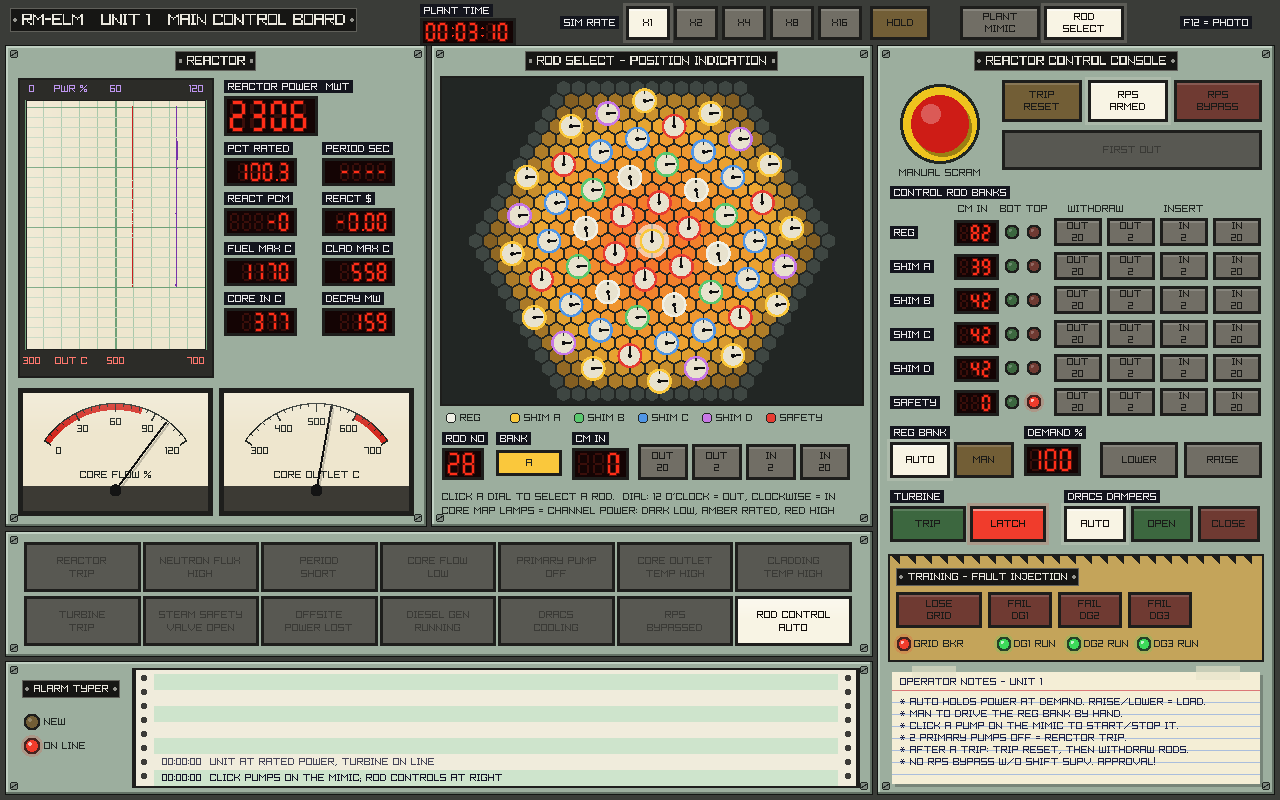
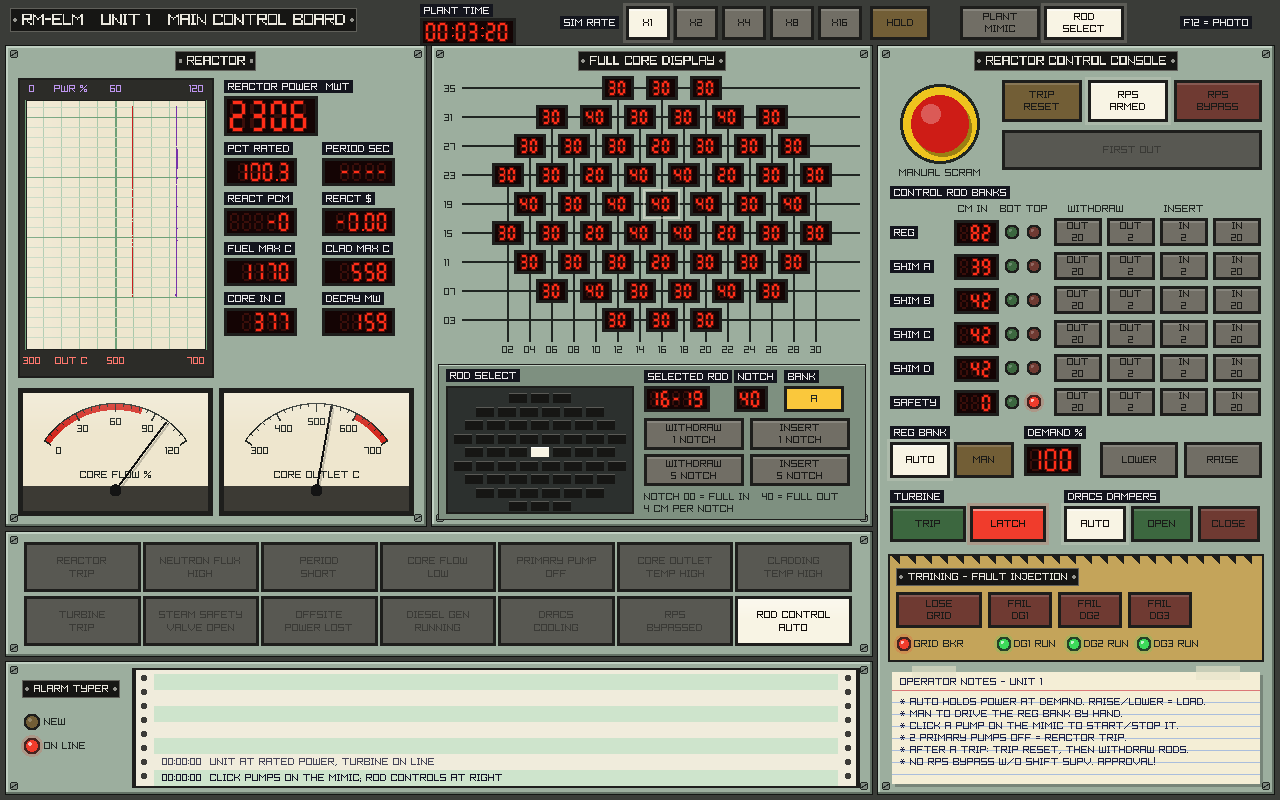
GUI: BWR-style full core display and rod select matrix
Replace the dial board with a ruled full core display of 2-digit LED
notch readouts (rod lattice turned back into 9 staggered rows with XX-YY
coordinates) and a desk rod select pushbutton matrix with notch drive.

Claude-Session: https://claude.ai/code/session_01TmzsBVUwRHTHfPCPwT7qXi

Changed region(s): [[0.3438, 0.0625, 0.6875, 0.6562], [0.375, 0.0312, 0.4062, 0.0625]]

diff --git a/src/gui/rmelm_gui.c b/src/gui/rmelm_gui.c
@@ -59,7 +59,6 @@ static char last_first_out[48] = "";
 static double last_log_time = -100;
 static int show_rods = 0;               /* centre board: 0 = plant mimic, 1 = rod select */
 static int sel_rod = -1;                /* selected rod (core index) or -1 */
-static int rod_no[128];                 /* rod number shown to the operator, 1..55 in reading order */
 
 static void logmsg(const char *fmt, ...)
 {
@@ -520,31 +519,44 @@ static void draw_mimic(Rectangle r)
     meter((Rectangle){r.x + 20 + 2 * mw, r.y + 362, mw, 110}, "DRACS MW", P->Q_dracs / 1e6, 0, 100, 0, 0, 2);
 }
 
-/* ---- rod select board ------------------------------------------------------ */
+/* ---- full core display and rod select matrix -------------------------------- */
 static const Color BANK_C[RM_NBANKS] = {
     {240, 240, 230, 255}, {250, 200, 60, 255}, {90, 200, 110, 255},
     {80, 150, 230, 255}, {200, 120, 230, 255}, {230, 60, 50, 255},
 };
 static const char *bank_short[RM_NBANKS] = {"REG", "A", "B", "C", "D", "SAFE"};
 
-/* number the rods 1..N top to bottom, left to right, like a core map */
+/* The rods sit on an index-7 sub-lattice of the hex grid, which is itself a
+ * triangular lattice turned by 19.1 degrees. Turned back, the 55 rods fall
+ * into 9 staggered rows, laid out like a BWR full core display, and get
+ * BWR-style XX-YY coordinates. */
+static int rod_ci[128], rod_rj[128], cmin, cmax, rmin, rmax;
+static char rod_id[128][16];
+
 static void number_rods(void)
 {
     rm_core *c = &P->core;
     rm_hexgrid *g = &c->dif.grid;
-    int ord[128];
-    for (int k = 0; k < c->nctrl; k++) ord[k] = k;
-    for (int i = 1; i < c->nctrl; i++)
-        for (int j = i; j > 0; j--) {
-            int a = c->ctrl_col[ord[j - 1]], b = c->ctrl_col[ord[j]];
-            double xa = g->q[a] + 0.5 * g->r[a], xb = g->q[b] + 0.5 * g->r[b];
-            if (g->r[a] < g->r[b] || (g->r[a] == g->r[b] && xa <= xb)) break;
-            int t = ord[j];
-            ord[j] = ord[j - 1];
-            ord[j - 1] = t;
-        }
-    for (int i = 0; i < c->nctrl; i++) rod_no[ord[i]] = i + 1;
+    double th = atan2(sqrt(3.0) / 2, 2.5), cs = cos(th), sn = sin(th);
+    cmin = rmin = 1000;
+    cmax = rmax = -1000;
+    for (int k = 0; k < c->nctrl; k++) {
+        int col = c->ctrl_col[k];
+        double x = g->q[col] + 0.5 * g->r[col], y = sqrt(3.0) / 2 * g->r[col];
+        rod_ci[k] = (int)lround((x * cs - y * sn) / (sqrt(7.0) / 2));
+        rod_rj[k] = (int)lround((x * sn + y * cs) / (sqrt(21.0) / 2));
+        if (rod_ci[k] < cmin) cmin = rod_ci[k];
+        if (rod_ci[k] > cmax) cmax = rod_ci[k];
+        if (rod_rj[k] < rmin) rmin = rod_rj[k];
+        if (rod_rj[k] > rmax) rmax = rod_rj[k];
+    }
+    for (int k = 0; k < c->nctrl; k++)
+        snprintf(rod_id[k], sizeof rod_id[k], "%02d-%02d", 2 * (rod_ci[k] - cmin) + 2, 4 * (rmax - rod_rj[k]) + 3);
 }
+
+/* notch position: 00 = fully inserted, 40 = fully withdrawn, 4 cm per notch */
+#define NOTCH_CM 4.0
+static int notch(double ins) { return (int)lround((RM_ACTIVE_H - ins) / NOTCH_CM); }
 
 static int rod_blocked(int k, int log)
 {
@@ -554,119 +566,111 @@ static int rod_blocked(int k, int log)
         return 1;
     }
     if (c->ctrl_bank[k] == BANK_REG && P->auto_rod) {
-        if (log) logmsg("ROD %d IS IN REG BANK - SELECT MAN FIRST", rod_no[k]);
+        if (log) logmsg("ROD %s IS IN REG BANK - SELECT MAN FIRST", rod_id[k]);
         return 1;
     }
     return 0;
 }
 
-/* channel power lamp: dark at zero, amber at the mean rated channel power, red above */
-static Color power_color(double rel)
-{
-    Color a, b;
-    double f;
-    if (rel < 1.0) { a = (Color){40, 30, 20, 255}; b = (Color){236, 168, 50, 255}; f = rel; }
-    else { a = (Color){236, 168, 50, 255}; b = (Color){255, 60, 36, 255}; f = (rel - 1.0) / 1.0; }
-    if (f < 0) f = 0;
-    if (f > 1) f = 1;
-    return (Color){(unsigned char)(a.r + (b.r - a.r) * f), (unsigned char)(a.g + (b.g - a.g) * f),
-                   (unsigned char)(a.b + (b.b - a.b) * f), 255};
-}
-
 static void draw_rodselect(Rectangle r)
 {
     rm_core *c = &P->core;
-    rm_hexgrid *g = &c->dif.grid;
-    steel(r, "ROD SELECT - POSITION INDICATION");
-    Rectangle b = {r.x + 8, r.y + 30, r.width - 16, 330};
-    DrawRectangleRec(b, (Color){34, 38, 36, 255});
-    DrawRectangleLinesEx(b, 2, BEZEL);
-    Vector2 o = {b.x + b.width / 2, b.y + b.height / 2};
-    const float sc = 0.92f;                        /* px per cm */
-    float hexr = RM_PITCH * sc / sqrtf(3.0f);
+    steel(r, "FULL CORE DISPLAY");
     Vector2 m = GetMousePosition();
     int blink = ((int)(GetTime() * 3)) & 1;
-
-    /* core map: every fuel channel is a lamp lit by its power */
-    double pch_rated = RM_P_RATED / c->nchan;
-    for (int col = 0; col < g->n; col++) {
-        if (g->ring[col] > RM_CORE_RINGS + 1) continue;
-        double x, y;
-        rm_hexgrid_xy(g, col, RM_PITCH * sc, &x, &y);
-        Vector2 p = {o.x + (float)x, o.y + (float)y};
-        if (c->coltype[col] == COL_REFL) {
-            DrawPoly(p, 6, hexr - 1, 30, (Color){62, 70, 66, 255});
-        } else if (c->coltype[col] == COL_FUEL) {
-            int ch = c->chan_of_col[col];
-            double pw = 0;
-            for (int k = 0; k < RM_NZ_ACT; k++) pw += c->th.q_node[core_fnode(c, ch, k)];
-            DrawPoly(p, 6, hexr - 1, 30, power_color(pw / pch_rated));
-        }
-    }
-
-    /* one position dial per rod: needle at 12 o'clock = fully out, clockwise = in */
     int hover = -1;
+
+    /* upper board: one 2-digit notch readout per rod on a ruled grid */
+    const float cp = 22, rp = 29;
+    float gx0 = r.x + 40 + (r.width - 60 - (cmax - cmin) * cp) / 2, gy0 = r.y + 42;
+    float lx = r.x + 30, rx = r.x + r.width - 12, by = gy0 + (rmax - rmin) * rp + 22;
+    for (int j = rmin; j <= rmax; j++) {
+        float y = gy0 + (j - rmin) * rp;
+        DrawLineEx((Vector2){lx, y}, (Vector2){rx, y}, 1.5f, INK);
+        textf(r.x + 12, y - 4, 10, INK, "%02d", 4 * (rmax - j) + 3);
+    }
+    for (int i = cmin; i <= cmax; i++) {
+        int top = rmax + 1;
+        for (int k = 0; k < c->nctrl; k++)
+            if (rod_ci[k] == i && rod_rj[k] < top) top = rod_rj[k];
+        if (top > rmax) continue;
+        float x = gx0 + (i - cmin) * cp;
+        DrawLineEx((Vector2){x, gy0 + (top - rmin) * rp}, (Vector2){x, by}, 1.5f, INK);
+        char lb[4];
+        snprintf(lb, sizeof lb, "%02d", 2 * (i - cmin) + 2);
+        ctext(lb, x, by + 3, 10, INK);
+    }
     for (int k = 0; k < c->nctrl; k++) {
-        double x, y;
-        rm_hexgrid_xy(g, c->ctrl_col[k], RM_PITCH * sc, &x, &y);
-        Vector2 p = {o.x + (float)x, o.y + (float)y};
-        if (k == sel_rod) DrawCircleV(p, 17, alpha(L_WHT, blink ? 170 : 90));
-        DrawCircleV(p, 12.5f, BANK_C[c->ctrl_bank[k]]);
-        DrawCircleV(p, 10, (Color){232, 226, 206, 255});
-        DrawLineEx((Vector2){p.x, p.y - 10}, (Vector2){p.x, p.y - 7}, 1.5f, INK);
-        float a = (float)((-90.0 + 330.0 * c->rod_ins[k] / RM_ACTIVE_H) * DEG2RAD);
-        DrawLineEx(p, (Vector2){p.x + 8.5f * cosf(a), p.y + 8.5f * sinf(a)}, 2, (Color){16, 16, 16, 255});
-        DrawCircleV(p, 2, (Color){16, 16, 16, 255});
-        if (fabs(c->rod_vel[k]) > 0 && !c->scram) DrawCircleV((Vector2){p.x + 9, p.y + 9}, 3, L_AMB);
-        if (CheckCollisionPointCircle(m, p, 12.5f)) {
+        float x = gx0 + (rod_ci[k] - cmin) * cp, y = gy0 + (rod_rj[k] - rmin) * rp;
+        Rectangle box = {x - 15.5f, y - 12, 31, 24};
+        if (k == sel_rod)
+            DrawRectangleLinesEx((Rectangle){box.x - 3, box.y - 3, box.width + 6, box.height + 6}, 2,
+                                 blink ? L_WHT : alpha(L_WHT, 110));
+        readout(box.x, box.y, 14, 2, "%02d", notch(c->rod_ins[k]));
+        if (fabs(c->rod_vel[k]) > 0 && !c->scram) DrawCircleV((Vector2){box.x + box.width - 2, box.y + 2}, 2.5f, L_AMB);
+        if (CheckCollisionPointRec(m, box)) {
             hover = k;
             if (IsMouseButtonPressed(MOUSE_BUTTON_LEFT)) sel_rod = sel_rod == k ? -1 : k;
         }
     }
 
-    /* legend */
-    float y = r.y + 366;
-    for (int bk = 0; bk < RM_NBANKS; bk++) {
-        float x = r.x + 14 + bk * 64;
-        DrawCircleV((Vector2){x + 5, y + 6}, 5, BANK_C[bk]);
-        DrawCircleLinesV((Vector2){x + 5, y + 6}, 5, INK);
-        text(bank_name[bk], x + 14, y + 1, 10, INK);
+    /* desk: rod select matrix and drive */
+    Rectangle d = {r.x + 6, r.y + 318, r.width - 12, 156};
+    DrawRectangleRec(d, (Color){126, 144, 128, 255});
+    DrawRectangleRec((Rectangle){d.x, d.y, d.width, 2}, PAINT_HI);
+    DrawRectangleLinesEx(d, 1, BEZEL);
+    dymo(d.x + 8, d.y + 5, "ROD SELECT");
+    Rectangle mx = {d.x + 8, d.y + 22, 188, 128};
+    DrawRectangleRec(mx, (Color){44, 48, 46, 255});
+    DrawRectangleLinesEx(mx, 2, BEZEL);
+    float mx0 = mx.x + 13 + (mx.width - 26 - (cmax - cmin) * 11) / 2, my0 = mx.y + 7;
+    for (int k = 0; k < c->nctrl; k++) {
+        Rectangle bt = {mx0 + (rod_ci[k] - cmin) * 11 - 9, my0 + (rod_rj[k] - rmin) * 13.5f, 18, 10};
+        int on = k == sel_rod;
+        int hv = CheckCollisionPointRec(m, bt);
+        DrawRectangleRec(bt, on ? L_WHT : (Color){22, 22, 20, 255});
+        DrawRectangleRec((Rectangle){bt.x, bt.y, bt.width, 1}, on ? WHITE : (Color){90, 90, 86, 255});
+        if (hv) {
+            DrawRectangleLinesEx(bt, 1, (Color){170, 170, 160, 255});
+            hover = k;
+            if (IsMouseButtonPressed(MOUSE_BUTTON_LEFT)) sel_rod = sel_rod == k ? -1 : k;
+        }
     }
 
-    /* selected rod */
-    y = r.y + 386;
+    float x = d.x + 206, y = d.y + 6;
     int s = sel_rod;
-    dymo(r.x + 10, y, "ROD NO");
-    if (s >= 0) readout(r.x + 10, y + 16, 22, 2, "%2d", rod_no[s]);
-    else readout(r.x + 10, y + 16, 22, 2, "--");
-    dymo(r.x + 64, y, "BANK");
+    dymo(x, y, "SELECTED ROD");
+    readout(x, y + 16, 16, 5, "%s", s >= 0 ? rod_id[s] : "-----");
+    dymo(x + 90, y, "NOTCH");
+    if (s >= 0) readout(x + 90, y + 16, 16, 2, "%02d", notch(c->rod_ins[s]));
+    else readout(x + 90, y + 16, 16, 2, "--");
+    dymo(x + 140, y, "BANK");
+    DrawRectangleRec((Rectangle){x + 140, y + 16, 60, 26}, BEZEL);
     if (s >= 0) {
-        DrawRectangleRec((Rectangle){r.x + 64, y + 18, 66, 26}, BEZEL);
-        DrawRectangleRec((Rectangle){r.x + 67, y + 21, 60, 20}, BANK_C[c->ctrl_bank[s]]);
-        ctext(bank_short[c->ctrl_bank[s]], r.x + 97, y + 26, 10, INK);
+        DrawRectangleRec((Rectangle){x + 143, y + 19, 54, 20}, BANK_C[c->ctrl_bank[s]]);
+        ctext(bank_short[c->ctrl_bank[s]], x + 170, y + 24, 10, INK);
     }
-    dymo(r.x + 140, y, "CM IN");
-    if (s >= 0) readout(r.x + 140, y + 16, 22, 3, "%3.0f", c->rod_ins[s]);
-    else readout(r.x + 140, y + 16, 22, 3, "---");
-    const char *lab[4] = {"OUT\n20", "OUT\n2", "IN\n2", "IN\n20"};
-    const double step[4] = {-20, -2, 2, 20};
+    const char *lab[4] = {"WITHDRAW\n1 NOTCH", "INSERT\n1 NOTCH", "WITHDRAW\n5 NOTCH", "INSERT\n5 NOTCH"};
+    const int dn[4] = {1, -1, 5, -5};
     for (int k = 0; k < 4; k++) {
-        Rectangle br = {r.x + 206 + k * 54, y + 12, 50, 36};
+        Rectangle br = {x + (k % 2) * 106, d.y + 54 + (k / 2) * 36, 100, 32};
         int pressing = s >= 0 && CheckCollisionPointRec(m, br) && IsMouseButtonDown(MOUSE_BUTTON_LEFT);
-        if (lampbutton(br, lab[k], L_WHT, pressing) && s >= 0 && !rod_blocked(s, 1))
-            rm_core_rod_move(c, s, c->rod_target[s] + step[k]);
+        if (lampbutton(br, lab[k], L_WHT, pressing) && s >= 0 && !rod_blocked(s, 1)) {
+            int nt = notch(c->rod_target[s]) + dn[k];
+            if (nt < 0) nt = 0;
+            if (nt > (int)(RM_ACTIVE_H / NOTCH_CM)) nt = (int)(RM_ACTIVE_H / NOTCH_CM);
+            rm_core_rod_move(c, s, RM_ACTIVE_H - NOTCH_CM * nt);
+        }
     }
-    text("CLICK A DIAL TO SELECT A ROD.  DIAL: 12 O'CLOCK = OUT, CLOCKWISE = IN", r.x + 10, r.y + 446, 10, INK);
-    text("CORE MAP LAMPS = CHANNEL POWER: DARK LOW, AMBER RATED, RED HIGH", r.x + 10, r.y + 460, 10, INK);
+    text("NOTCH 00 = FULL IN   40 = FULL OUT", x, d.y + 128, 10, INK);
+    text("4 CM PER NOTCH", x, d.y + 140, 10, INK);
 
     if (hover >= 0) {
-        double x, y2;
-        rm_hexgrid_xy(g, c->ctrl_col[hover], RM_PITCH * sc, &x, &y2);
-        char tip[48];
-        snprintf(tip, sizeof tip, "ROD %d  %s  %.0f CM IN", rod_no[hover], bank_name[c->ctrl_bank[hover]], c->rod_ins[hover]);
+        char tip[64];
+        snprintf(tip, sizeof tip, "ROD %s  %s  NOTCH %02d  (%.0f CM IN)", rod_id[hover],
+                 bank_name[c->ctrl_bank[hover]], notch(c->rod_ins[hover]), c->rod_ins[hover]);
         float tw = (float)MeasureText(tip, 10) + 10;
-        float tx = fminf(o.x + (float)x + 14, b.x + b.width - tw - 4), ty = o.y + (float)y2 - 30;
-        if (ty < b.y + 4) ty = o.y + (float)y2 + 16;
+        float tx = fminf(m.x + 12, r.x + r.width - tw - 6), ty = m.y - 24;
         DrawRectangleRec((Rectangle){tx, ty, tw, 16}, (Color){244, 238, 214, 255});
         DrawRectangleLinesEx((Rectangle){tx, ty, tw, 16}, 1, BEZEL);
         text(tip, tx + 5, ty + 3, 10, INK);

diff --git a/README.md b/README.md
@@ -46,18 +46,19 @@ Lamps follow the US convention of the period: red = running/closed,
 green = stopped/open. The SIM RATE buttons set speed (X1 to X16), HOLD
 pauses, and F12 saves a screenshot.
 
-![Rod select board: rod 28 pulled out on its own](docs/gui_rods.png)
+![Full core display and rod select matrix: rod 16-19 withdrawn on its own](docs/gui_rods.png)
 
-The ROD SELECT button (or TAB) swaps the plant mimic for the rod select
-board. It is a core map of all 55 control rods, each with a round position
-dial: the needle at 12 o'clock means fully out, and it turns clockwise as
-the rod goes in. The ring colour shows the rod's bank. Behind the dials,
-every fuel channel is a lamp lit by its power (dark = low, amber = rated,
-red = high), so you can see the power tilt when you move one rod. Click a
-dial to select that rod, then drive it alone with OUT/IN. Hover over a dial
-to see its number, bank and depth. The bank buttons on the console move a
-whole bank and keep each rod's offset. REG bank rods can only be moved by
-hand after you select MAN.
+The ROD SELECT button (or TAB) swaps the plant mimic for a BWR-style full
+core display. The upper board shows a 2-digit red LED readout for each of
+the 55 rods, laid out in the shape of the core on a ruled grid. Each rod is
+named by its grid coordinates (for example 16-19). Readouts show notch
+position: 00 = fully in, 40 = fully out, 4 cm per notch. The desk below it
+has the rod select matrix, with one black pushbutton per rod in the same
+pattern. Press a button (or click a readout) to select that rod; its button
+lights white. Then use WITHDRAW/INSERT 1 or 5 notches to drive that rod
+alone. Hover over a rod to see its bank and depth. The bank buttons on the
+console move a whole bank and keep each rod's offset. REG bank rods can only
+be moved by hand after you select MAN.
 
 The first `cmake` configure downloads raylib 5.5 automatically (or uses one
 already installed). On Linux you need the X11/OpenGL development packages:
